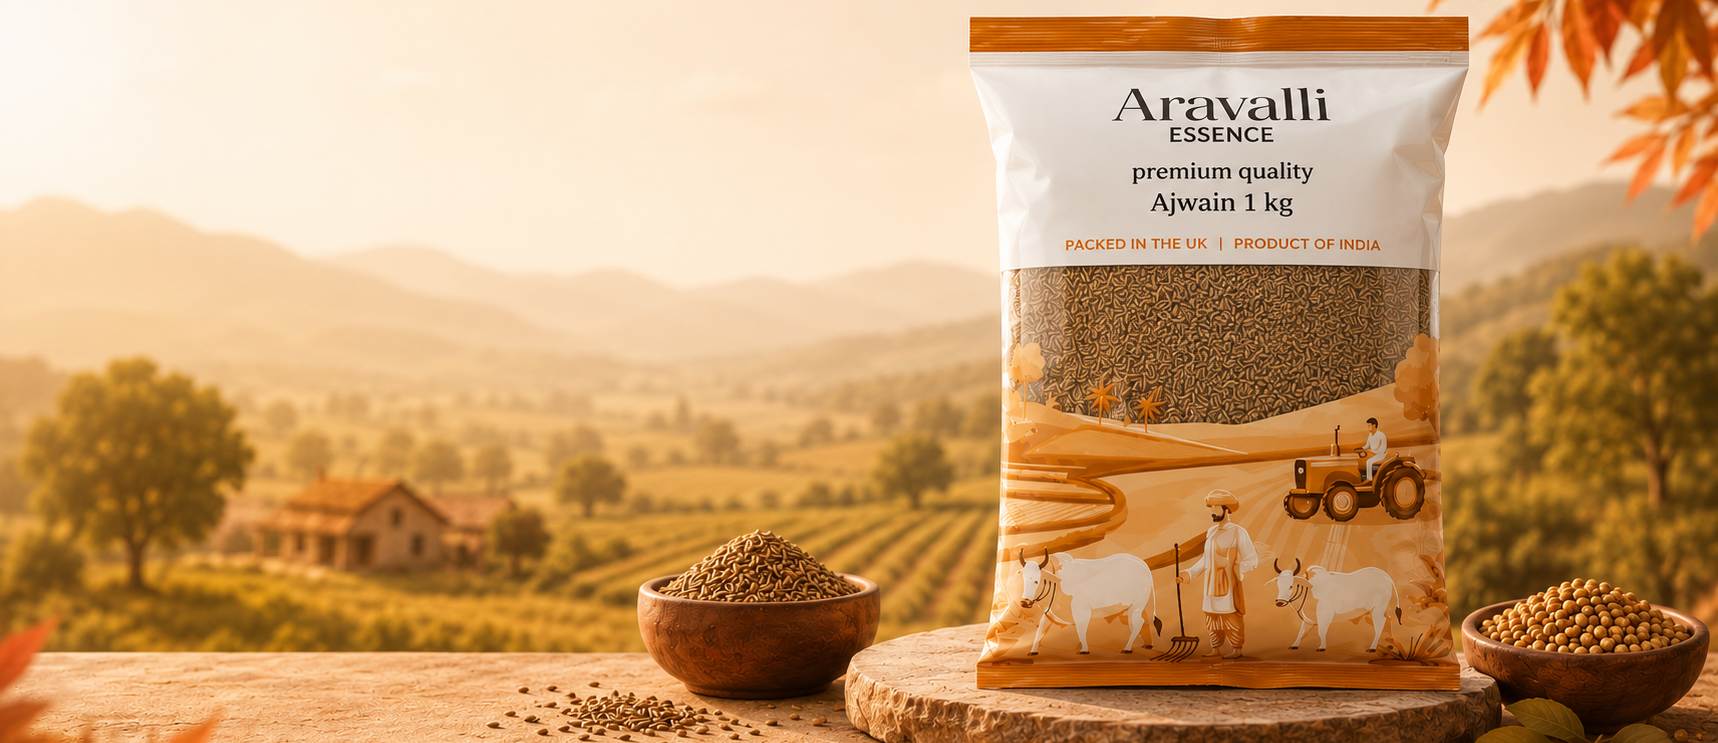
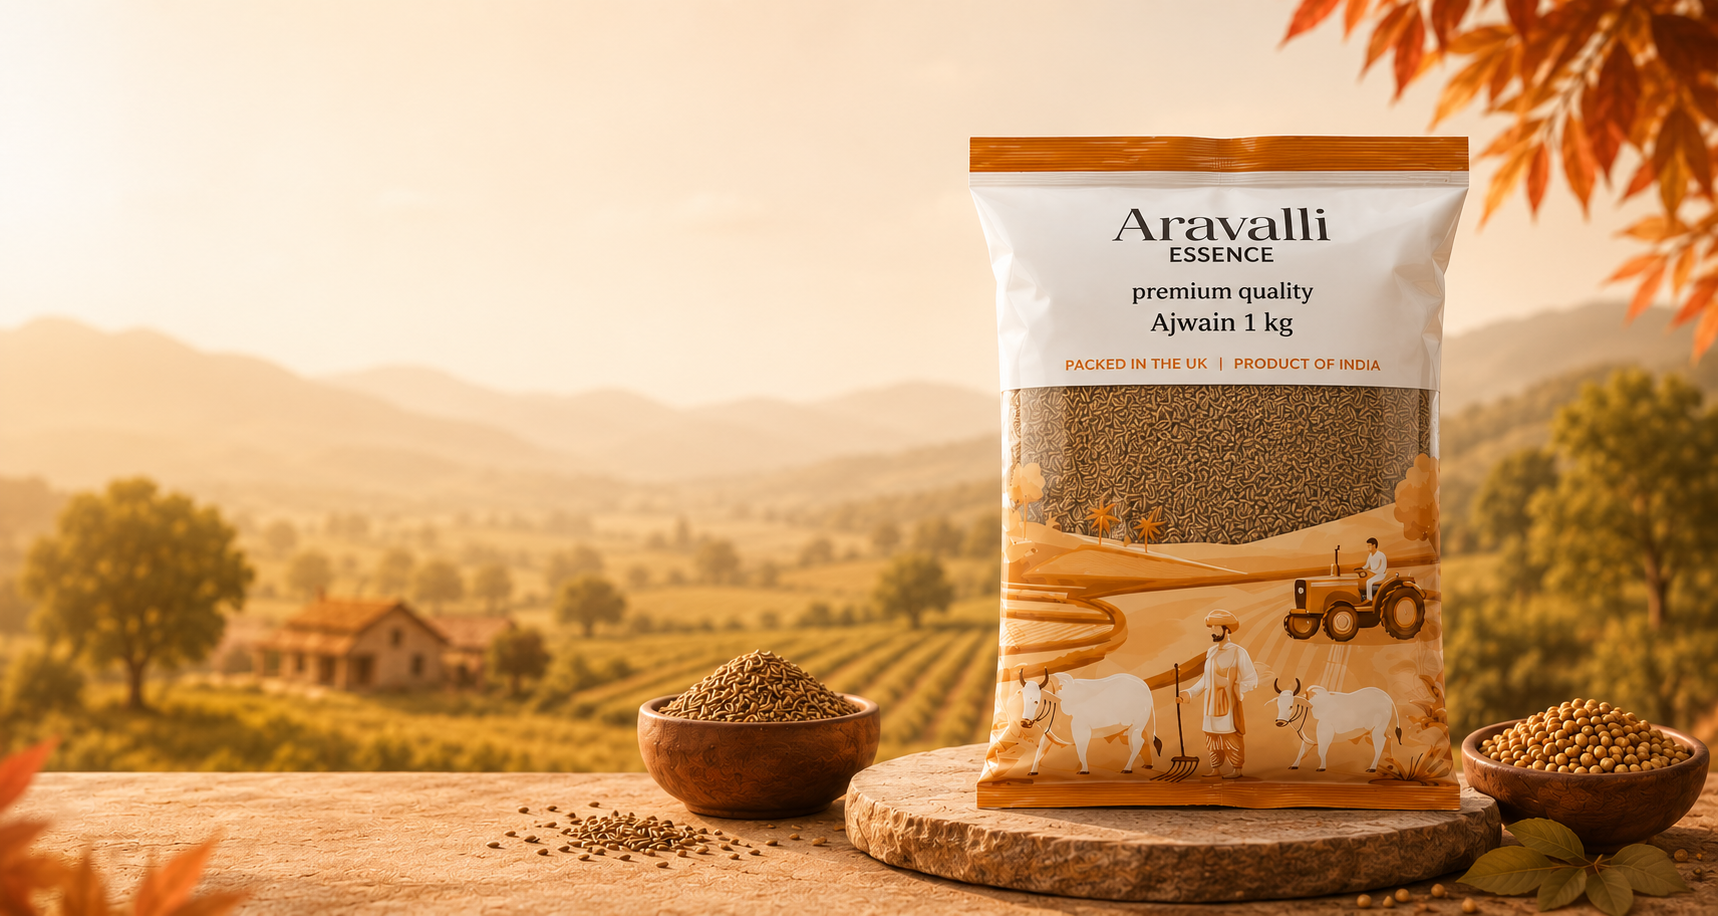
update in hero

diff --git a/frontend/src/components/ui/AdvancedHeroSection.tsx b/frontend/src/components/ui/AdvancedHeroSection.tsx
@@ -1,40 +1,81 @@
 import React from 'react';
 import { Link } from 'react-router-dom';
 import { ArrowRight, Play, Star } from 'lucide-react';
+import { motion } from 'framer-motion';
 import AnimatedButton from './AnimatedButton';
 import heroImage from '/images/hero-section.png';
 
+const fadeUp = {
+  hidden: { opacity: 0, y: 60 },
+  visible: (delay: number = 0) => ({
+    opacity: 1,
+    y: 0,
+    transition: {
+      duration: 0.65,
+      ease: [0.22, 1, 0.36, 1],
+      delay,
+    },
+  }),
+};
+
 const AdvancedHeroSection: React.FC = () => {
   return (
-    <section className="relative overflow-hidden -mt-5 flex flex-col sm:min-h-[85vh] sm:justify-center pt-24 pb-10 sm:pb-16">
-      {/* Desktop/tablet: full-bleed background, product pack untouched on the right, clear space on the left for copy */}
-      <div className="hidden sm:block absolute inset-0 scale-105">
+    <section className="relative overflow-hidden -mt-5 flex flex-col min-h-screen sm:justify-center pt-24 pb-10 sm:pb-16">
+
+      {/* Desktop/tablet: full-bleed background — object-right-center keeps the product pack visible */}
+      <div className="hidden sm:block absolute inset-0">
         <img
           src={heroImage}
           alt="Arravali Essence spices, sourced from Indian farms"
-          className="w-full h-full object-cover"
+          className="w-full h-full object-cover object-right-center"
+          style={{ objectPosition: 'right center' }}
         />
-        {/* Soft scrim over the left clear-space only, so the product art stays untouched */}
-        <div className="absolute inset-0 bg-gradient-to-r from-amber-50/85 via-amber-50/40 to-transparent" />
+        {/* Soft scrim on the left so text stays legible */}
+        <div className="absolute inset-0 bg-gradient-to-r from-amber-50/90 via-amber-50/55 to-transparent" />
       </div>
 
-      {/* Content */}
+      {/* Content — each block animates up from below on mount */}
       <div className="order-1 relative z-10 max-w-7xl mx-auto px-4 sm:px-6 lg:px-8 w-full">
         <div className="max-w-xl mx-auto sm:mx-0 text-center sm:text-left">
-          <h1 className="font-serif text-5xl md:text-6xl lg:text-7xl font-bold text-stone-900 leading-[1.05] mb-4">
+
+          <motion.h1
+            variants={fadeUp}
+            initial="hidden"
+            animate="visible"
+            custom={0}
+            className="font-serif text-5xl md:text-6xl lg:text-7xl font-bold text-stone-900 leading-[1.05] mb-4"
+          >
             Arravali <span className="text-primary-600">Essence</span>
-          </h1>
+          </motion.h1>
 
-          <p className="text-lg md:text-xl font-semibold uppercase tracking-widest text-primary-700 mb-6">
+          <motion.p
+            variants={fadeUp}
+            initial="hidden"
+            animate="visible"
+            custom={0.12}
+            className="text-lg md:text-xl font-semibold uppercase tracking-widest text-primary-700 mb-6"
+          >
             UK's Premier Spice Destination
-          </p>
+          </motion.p>
 
-          <p className="text-lg text-stone-700 mb-10 leading-relaxed">
+          <motion.p
+            variants={fadeUp}
+            initial="hidden"
+            animate="visible"
+            custom={0.22}
+            className="text-lg text-stone-700 mb-10 leading-relaxed"
+          >
             Authentic spices sourced directly from Indian farms, milled in small batches
             and delivered fresh across the UK.
-          </p>
+          </motion.p>
 
-          <div className="flex flex-col sm:flex-row items-center sm:items-start justify-center sm:justify-start gap-6 mb-12">
+          <motion.div
+            variants={fadeUp}
+            initial="hidden"
+            animate="visible"
+            custom={0.33}
+            className="flex flex-col sm:flex-row items-center sm:items-start justify-center sm:justify-start gap-6 mb-12"
+          >
             <AnimatedButton
               as={Link}
               to="/shop"
@@ -53,9 +94,15 @@ const AdvancedHeroSection: React.FC = () => {
               </span>
               Watch Our Story
             </button>
-          </div>
+          </motion.div>
 
-          <div className="inline-flex items-center gap-6 bg-white/70 backdrop-blur-md border border-amber-100 rounded-2xl px-8 py-4 shadow-sm">
+          <motion.div
+            variants={fadeUp}
+            initial="hidden"
+            animate="visible"
+            custom={0.44}
+            className="inline-flex items-center gap-6 bg-white/70 backdrop-blur-md border border-amber-100 rounded-2xl px-8 py-4 shadow-sm"
+          >
             <div>
               <div className="text-xl font-black text-stone-900">Next Day</div>
               <div className="text-xs uppercase tracking-wide text-stone-500">UK Delivery</div>
@@ -71,20 +118,27 @@ const AdvancedHeroSection: React.FC = () => {
                 <Star key={i} className="w-4 h-4 text-amber-400 fill-current" />
               ))}
             </div>
-          </div>
+          </motion.div>
         </div>
       </div>
 
-      {/* Mobile: product image shown as its own framed card below the copy, never behind text */}
-      <div className="order-2 sm:hidden relative z-10 px-4 mt-10">
+      {/* Mobile: product image shown below copy, object-position focuses on the product pack */}
+      <motion.div
+        variants={fadeUp}
+        initial="hidden"
+        animate="visible"
+        custom={0.2}
+        className="order-2 sm:hidden relative z-10 px-4 mt-10"
+      >
         <div className="rounded-3xl overflow-hidden shadow-xl aspect-[4/3]">
           <img
             src={heroImage}
             alt="Arravali Essence spices, sourced from Indian farms"
-            className="w-full h-full object-cover object-[65%_center]"
+            className="w-full h-full object-cover"
+            style={{ objectPosition: '70% center' }}
           />
         </div>
-      </div>
+      </motion.div>
     </section>
   );
 };
